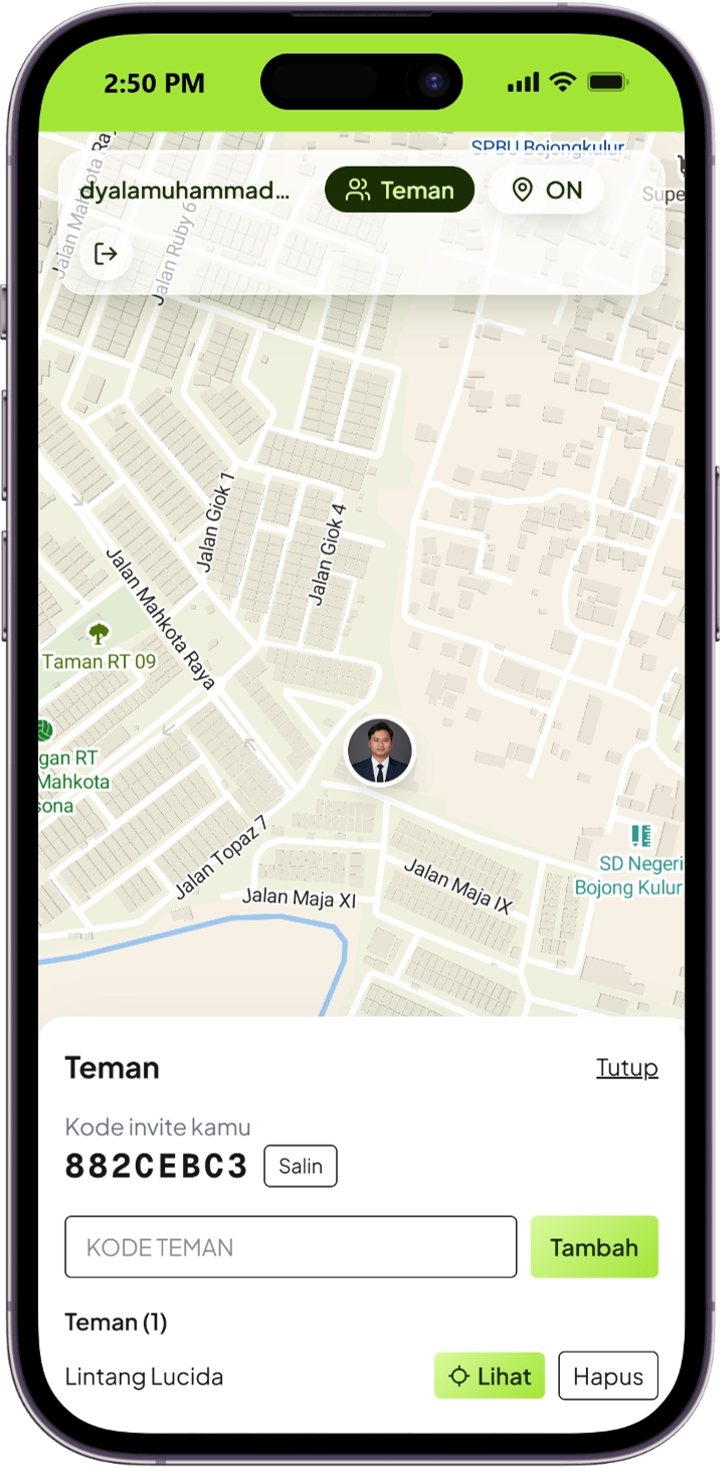
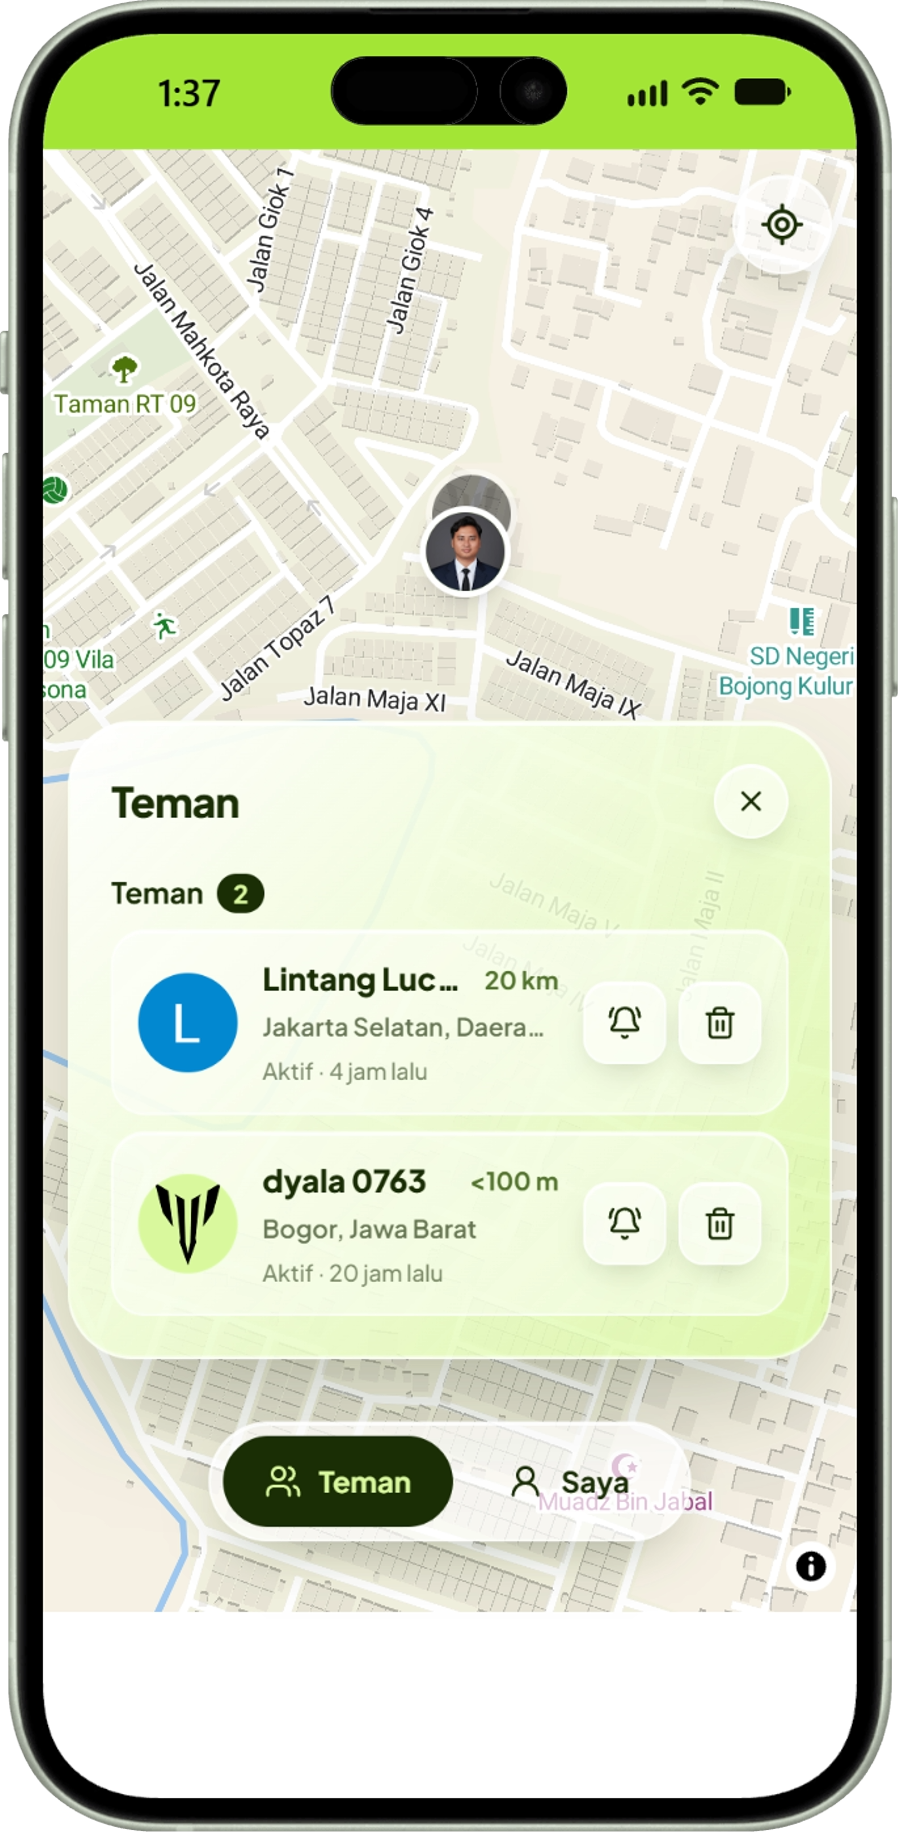
docs: update UI screenshot readme

diff --git a/README.md b/README.md
@@ -7,9 +7,13 @@ Berbagi lokasi realtime dengan teman, terinspirasi dari Find My dan Zenly. Web a
 
 ## Screenshots
 
-|                Login                 |              Panel Teman               |
-| :----------------------------------: | :------------------------------------: |
-| ![Login](docs/screenshots/login.png) | ![Teman](docs/screenshots/friends.png) |
+|              Splash Screen              |                Login                 |
+| :-------------------------------------: | :----------------------------------: |
+| ![Login](docs/screenshots/splash-2.png) | ![Teman](docs/screenshots/login.png) |
+
+|             Privacy Policy             |              Panel Teman               |
+| :------------------------------------: | :------------------------------------: |
+| ![Login](docs/screenshots/privacy.png) | ![Teman](docs/screenshots/friends.png) |
 
 |          Mode Demo (Tamu)          |              Banner iPhone              |
 | :--------------------------------: | :-------------------------------------: |
@@ -70,7 +74,7 @@ Alur notifikasi:
 - **Web Push langsung dengan VAPID**, tanpa Firebase, agar tidak menambah ketergantungan layanan.
 - **Satu jadwal QStash untuk semua user.** Endpoint yang memilih target dan mengirim, jadi pemakaian pesan QStash sangat kecil dan aman di free tier.
 - **Pengingat yang tidak mengganggu:** dilewati untuk user yang lokasinya masih baru atau sharing-nya mati, dan tidak dikirim di malam hari.
-- **Anti-spam ping:** hanya teman _accepted_, tamu ditolak, maksimal satu ping per pasangan setiap 15 menit, divalidasi di fungsi SQL.
+- **Anti-spam ping:** hanya teman _accepted_, tamu ditolak, maksimal satu ping per pasangan setiap 1 menit, divalidasi di fungsi SQL.
 
 ### Skema database
 
@@ -120,7 +124,7 @@ Skrip SQL ada di `supabase/sql/` dan dijalankan berurutan.
 **Prasyarat:** Node.js, akun Supabase, dan API key MapTiler.
 
 ```bash
-git clone https://github.com/USERNAME_KAMU/circlo.git
+git clone https://github.com/dyalamuhammad/circlo.git
 cd circlo
 npm install
 ```
